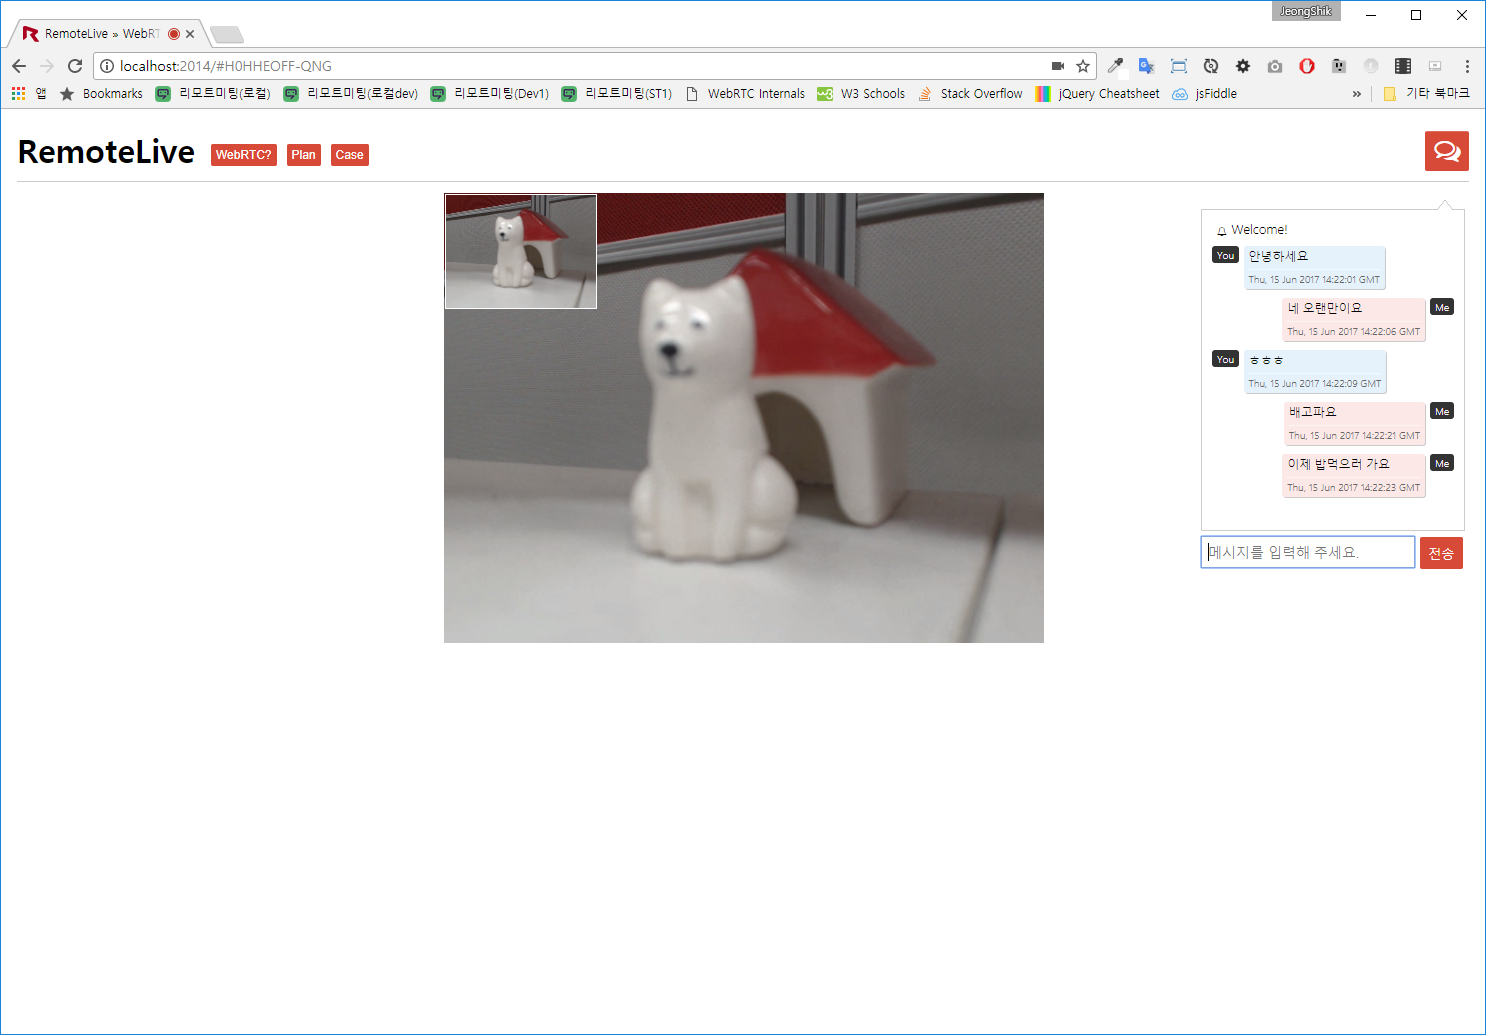
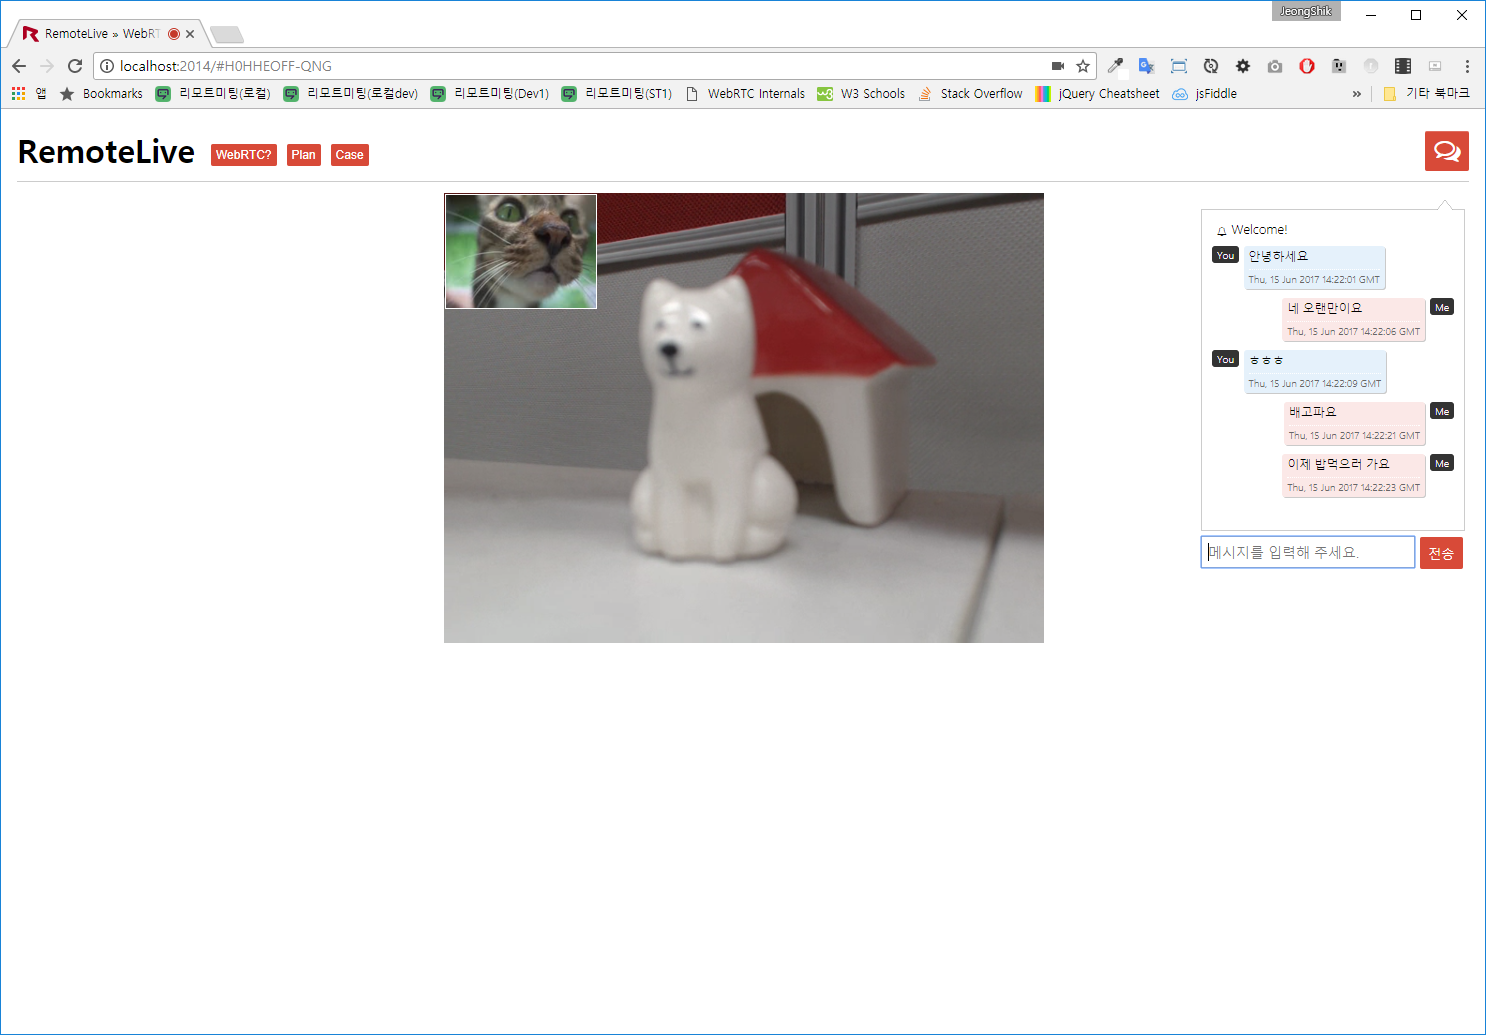
Update content image

Changed region(s): [[0.2786, 0.1855, 0.4024, 0.3092]]

diff --git a/src/pages/DevelopmentDetails/RemoteMeeting.js b/src/pages/DevelopmentDetails/RemoteMeeting.js
@@ -22,8 +22,8 @@ const RemoteMeeting = () => {
           있었습니다.
         </p>
         <p>
-          초기 개발 시행착오와 프로젝트 정식 오픈까지 여러 차례의 난관이 찾아왔지만, 내가 만들고 싶던 서비스를 회사 주요
-          제품군으로 만들어내고 싶다는 생각으로 많은 열정을 쏟은 프로젝트입니다. 2014년 개발 시작하여, 2015년 무료 버전
+          초기 개발 시행착오와 프로젝트 정식 오픈까지 여러 난관이 찾아왔지만, 내가 만들고 싶던 서비스를 회사 주요
+          제품으로 만들어내고 싶다는 생각으로 많은 열정을 쏟은 프로젝트입니다. 2014년 개발 시작하여, 2015년 무료 버전
           오픈, 2017년 상용 버전 오픈하며 현재는 일본과 국내에 많은 업체와 사용자가 사용하는 서비스가 되었습니다.
         </p>
         <p>리모트미팅은 Web, iOS, Android, 전용 하드웨어 제품과 상호 연결됩니다.</p>
@@ -76,7 +76,7 @@ const RemoteMeeting = () => {
           <dt>라운지 (캘린더)</dt>
           <dd>
             <p>예약을 위한 캘린더와 종료된 회의 히스토리를 관리 할 수 있습니다.</p>
-            <img src={require('statics/img/development/remotemeeting/feature-calendar1.png')} alt={name} />
+            <img src={require('statics/img/development/remotemeeting/feature-calendar.png')} alt={name} />
           </dd>
         </dl>
         <dl>
@@ -89,10 +89,7 @@ const RemoteMeeting = () => {
         <dl>
           <dt>화면공유</dt>
           <dd>
-            <p>
-              화면공유와 스크린샷 크롬 확장프로그램을 개발하여 사용중이며, Screen Share API를 사용하여 회의 중 PC 화면을
-              참여자들에게 공유할 수 있습니다.
-            </p>
+            <p>화면공유와 스크린샷 크롬 확장프로그램을 개발하여 회의 중 PC화면을 참여자들에게 공유할 수 있습니다.</p>
             <img src={require('statics/img/development/remotemeeting/feature-screen.png')} alt={name} />
           </dd>
         </dl>
@@ -101,7 +98,7 @@ const RemoteMeeting = () => {
           <dd>
             <p>
               문서 뷰어와 Canvas 그리기 도구를 자체 개발하였으며, 주최자의 문서 화면은 참여자에게 실시간으로
-              동기화합니다.
+              동기화됩니다.
               <br />
               다양한 문서 포맷을 지원하기 위해 Third party 문서 변환기를 사용하고 있습니다.
             </p>
@@ -111,8 +108,8 @@ const RemoteMeeting = () => {
         <dl>
           <dt>채팅</dt>
           <dd>
-            <p>타임라인 인터페이스에는 회의 상태와 채팅 메시지는 기록됩니다.</p>
-            <img src={require('statics/img/development/remotemeeting/feature-chat.png')} alt={name} />
+            <p>타임라인 인터페이스에는 회의 상태 변화에 대한 내용이 노출되고, 채팅 메시지를 주고 받을 수 있습니다.</p>
+            <img src={require('statics/img/development/remotemeeting/feature-chat2.png')} alt={name} />
           </dd>
         </dl>
         <dl>

diff --git a/src/components/development/DevelopmentDetailTemplate/DevelopmentDetailTemplate.scss b/src/components/development/DevelopmentDetailTemplate/DevelopmentDetailTemplate.scss
@@ -1,4 +1,4 @@
-@import "~statics/scss/modules/variables";
+@import '~statics/scss/modules/variables';
 
 $font-color: #333;
 
@@ -110,7 +110,7 @@ $font-color: #333;
         height: 100%;
         padding-bottom: 30px;
         box-shadow: none;
-        border: solid 1px #E4E4E4;
+        border: solid 1px #e4e4e4;
 
         &:hover {
           opacity: 1;
@@ -138,16 +138,16 @@ $font-color: #333;
     .back-to-list {
       display: inline-block;
       text-decoration: none;
-      color: rgba(0,0,0,0.7);
+      color: rgba(0, 0, 0, 0.7);
 
       padding: 2px 15px;
-      background: rgba(0,0,0,0.01);
-      border: solid 1px rgba(0,0,0,0.1);
+      background: rgba(0, 0, 0, 0.01);
+      border: solid 1px rgba(0, 0, 0, 0.1);
       border-radius: 2px;
 
       &:hover {
-        color: rgba(0,0,0,1);
-        background: rgba(0,0,0,0.04);
+        color: rgba(0, 0, 0, 1);
+        background: rgba(0, 0, 0, 0.04);
       }
 
       span {
@@ -161,7 +161,7 @@ $font-color: #333;
 .image-wrap {
   min-height: 100px;
   overflow: hidden;
-  border: solid 1px rgba(0,0,0,0.1);
+  border: solid 1px rgba(0, 0, 0, 0.1);
   border-radius: $border-radius-base;
   box-shadow: $box-shadow-weak;
 
@@ -193,5 +193,10 @@ $font-color: #333;
       object-position: center 0;
     }
   }
-}
 
+  &.x-right {
+    img {
+      object-position: center right;
+    }
+  }
+}

diff --git a/src/pages/DevelopmentDetails/RemoteWOL.js b/src/pages/DevelopmentDetails/RemoteWOL.js
@@ -6,8 +6,8 @@ const RemoteWOL = () => {
 
   return (
     <DevelopmentDetailTemplate title={`${name}`}>
-      <section className="image-wrap s-cover">
-        <img src={require('statics/img/development/remotewol/feature-pc-on2.png')} alt={name} />
+      <section className="image-wrap contain x-right">
+        <img src={require('statics/img/development/remotewol/main.jpg')} alt={name} />
       </section>
 
       <section className="overview">
@@ -90,7 +90,9 @@ const RemoteWOL = () => {
         <dl>
           <dt>RemoteView 서비스에서 관리</dt>
           <dd>
-            <p>RemoteView에 연동하면 WOL장비 에이전트가 노출되며 전체전원 켜기 또는 개별 PC의 전원을 켤 수 있습니다.</p>
+            <p>
+              RemoteView에 연동하면 WOL장비 에이전트가 노출되며 전체 전원 켜기 또는 개별로 PC 전원을 켤 수 있습니다.
+            </p>
             <img src={require('statics/img/development/remotewol/feature-rv-pc-on.png')} alt={name} />
           </dd>
         </dl>

diff --git a/src/pages/About.js b/src/pages/About.js
@@ -21,9 +21,9 @@ const About = () => {
               <h1>박정식</h1>
               <h2>
                 Front-End Engineer
-                <i role="img" aria-label="like it">
+                <span role="img" aria-label="like it">
                   💻 🌏 🐘 🍺 🙏
-                </i>
+                </span>
               </h2>
               <p id="description">
                 Rsupport라는 회사에서 프론트엔드 개발자로 재직중이며 2010년 부터 실무를 담당하고 있습니다.
@@ -36,9 +36,9 @@ const About = () => {
                 사용하기 쉬운 서비스를 만들고자 UX/UI에 대한 고민을 많이하는 편입니다.
               </p>
               <p id="email-info">
-                <i role="img" aria-label="email">
+                <span role="img" aria-label="email">
                   📧
-                </i>
+                </span>
                 <a href="mailto:dodortus@gmail.com">dodortus@gmail.com</a>
               </p>
             </section>

diff --git a/src/pages/DevelopmentDetails/RemoteLive.js b/src/pages/DevelopmentDetails/RemoteLive.js
@@ -6,8 +6,8 @@ const RemoteLive = () => {
 
   return (
     <DevelopmentDetailTemplate title={`${name}`}>
-      <section className="image-wrap center cover">
-        <img src={require('statics/img/development/remotelive/main.png')} alt={name} />
+      <section className="image-wrap x-center cover">
+        <img src={require('statics/img/development/remotelive/feature-meeting.png')} alt={name} />
       </section>
 
       <section className="overview">

diff --git a/src/components/about/AboutTemplate/AboutTemplate.scss b/src/components/about/AboutTemplate/AboutTemplate.scss
@@ -86,12 +86,12 @@
         margin-bottom: 40px;
         color: #959595;
 
-        i {
+        span {
           margin-left: 12px;
         }
       }
 
-      i {
+      span {
         display: inline-block;
         font-style: normal;
       }
@@ -101,8 +101,8 @@
       }
 
       #email-info {
-        i {
-          margin-right: 5px;
+        span {
+          margin-right: 4px;
         }
       }
     }
